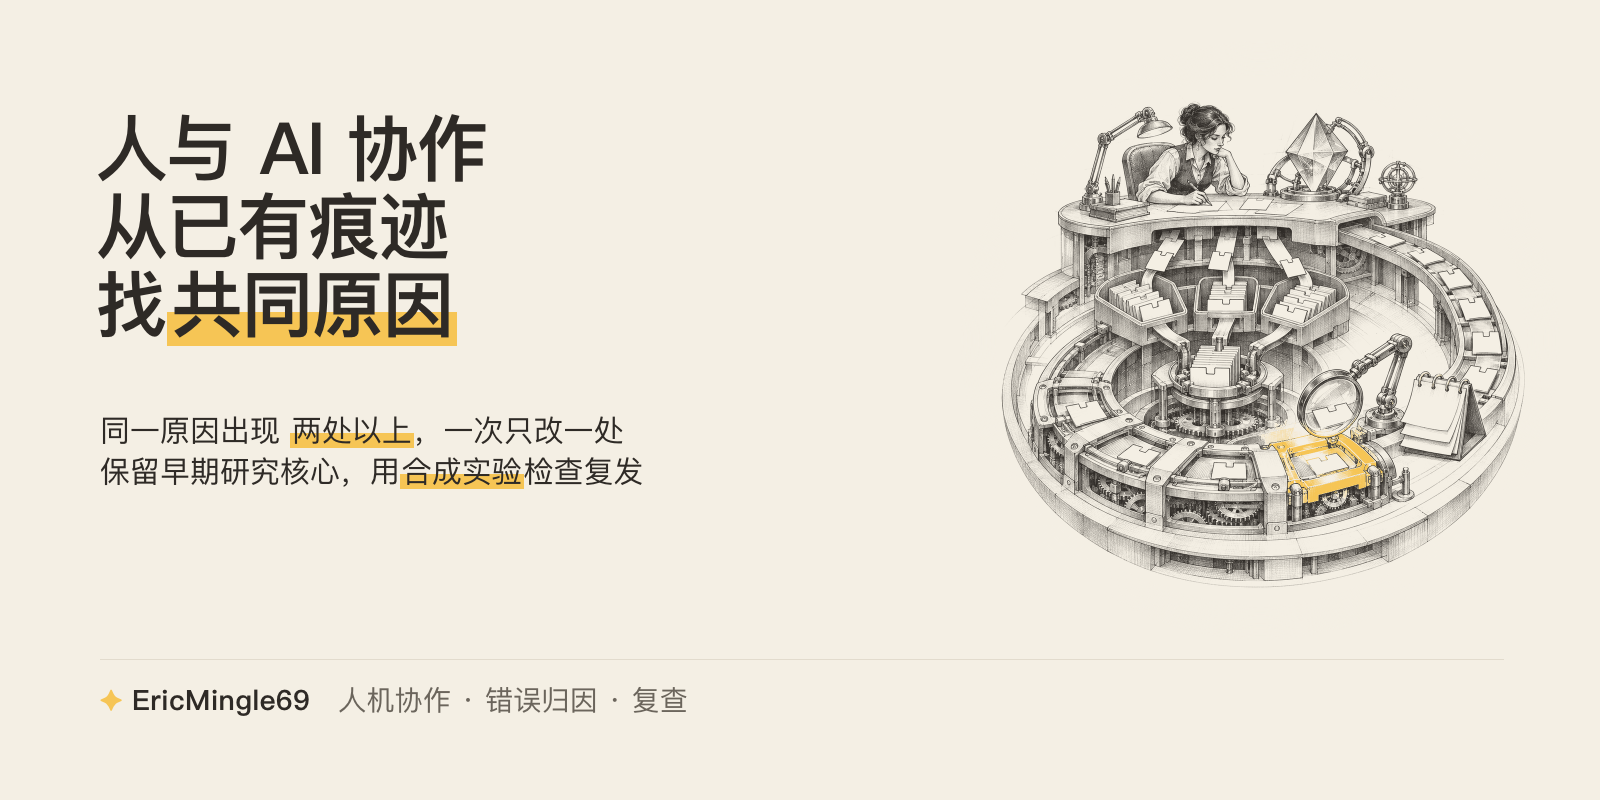
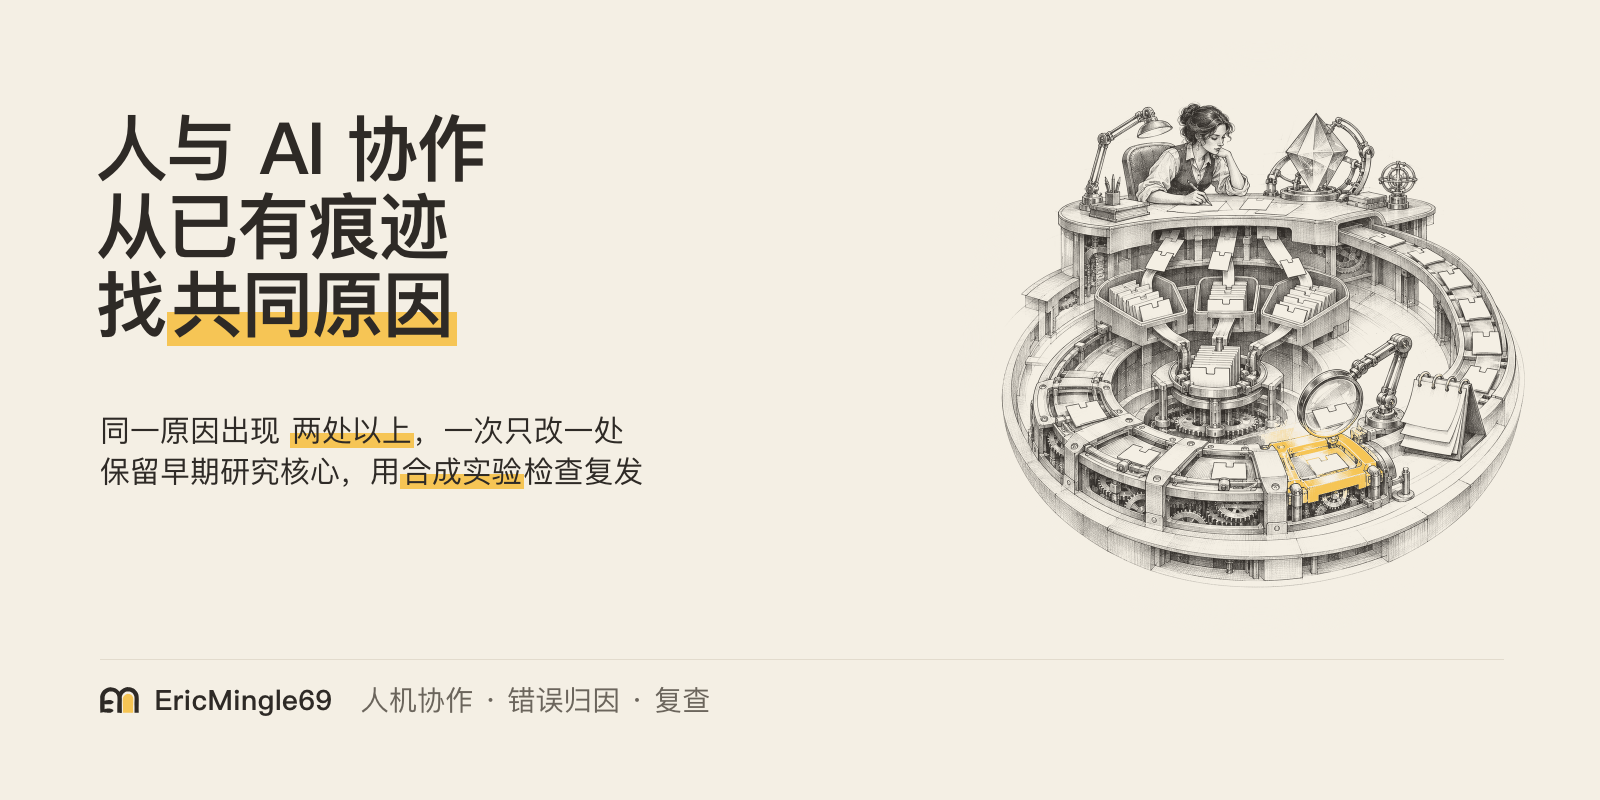
Docs: EM signature and covers

Changed region(s): [[0.0625, 0.8438, 0.4375, 0.9062]]

diff --git a/scripts/publication_check.py b/scripts/publication_check.py
@@ -24,7 +24,7 @@ from urllib.parse import parse_qsl, urlsplit
 MANIFEST = "PUBLIC-FILES.json"
 CONFIG = "PUBLICATION.toml"
 # Reviewed, generated covers only; other binary files remain forbidden.
[2 lines of base64/hex data omitted]
 MAX_FILES = 3000
 MAX_BYTES = 2_000_000
 DENIED_DIRS = frozenset({

diff --git a/src/astra_harness/__init__.py b/src/astra_harness/__init__.py
@@ -1,2 +1,2 @@
 """Astra Harness public research core; no automatic host integration."""
-__version__ = "0.1.3"
+__version__ = "0.1.4"

diff --git a/README.en.md b/README.en.md
@@ -8,7 +8,7 @@
 <p align="center">
 <img alt="license MIT" src="https://img.shields.io/badge/license-MIT-F6C555?style=flat-square&labelColor=2E2A26">
 <img alt="python 3.11%2B" src="https://img.shields.io/badge/python-3.11%2B-6B655C?style=flat-square&labelColor=2E2A26">
-<img alt="version 0.1.3" src="https://img.shields.io/badge/version-0.1.3-6B655C?style=flat-square&labelColor=2E2A26">
+<img alt="version 0.1.4" src="https://img.shields.io/badge/version-0.1.4-6B655C?style=flat-square&labelColor=2E2A26">
 <a href="https://github.com/Ming-Sir-69/astra-harness/actions/workflows/research-core.yml"><img alt="Synthetic research CI" src="https://img.shields.io/github/actions/workflow/status/Ming-Sir-69/astra-harness/research-core.yml?branch=main&style=flat-square&labelColor=2E2A26&color=A8A196"></a>
 </p>
 
@@ -31,7 +31,7 @@ No extra logging; the workflow uses the traces that already exist:
 <details>
 <summary>Public capabilities and boundaries</summary>
 
-| Capability | Public 0.1.3 | Boundary |
+| Capability | Public 0.1.4 | Boundary |
 |---|---|---|
 | HCD event protocol and SQLite ledger | Implemented | Explicit data root; bounded inputs; idempotency; ownership/epoch checks |
 | Acceptance and ordinal distance | Implemented | Plan/result separate; evidence required; later corrections and expiry invalidate stale state |
@@ -152,5 +152,5 @@ These works relate to mechanisms discussed by this project and provide context f
 
 ---
 
-Maintained by **✦ EricMingle69** · [Ming-Sir-69](https://github.com/Ming-Sir-69)  
+Maintained by <picture><source media="(prefers-color-scheme: dark)" srcset="readme-assets/em-logo-dark.svg"><img src="readme-assets/em-logo-light.svg" alt="EM" height="13"></picture> <b>EricMingle69</b> · <a href="https://github.com/Ming-Sir-69">Ming-Sir-69</a><br>
 Code, text and original graphics are released under the [MIT License](LICENSE).

diff --git a/README.md b/README.md
@@ -8,7 +8,7 @@
 <p align="center">
 <img alt="license MIT" src="https://img.shields.io/badge/license-MIT-F6C555?style=flat-square&labelColor=2E2A26">
 <img alt="python 3.11%2B" src="https://img.shields.io/badge/python-3.11%2B-6B655C?style=flat-square&labelColor=2E2A26">
-<img alt="version 0.1.3" src="https://img.shields.io/badge/version-0.1.3-6B655C?style=flat-square&labelColor=2E2A26">
+<img alt="version 0.1.4" src="https://img.shields.io/badge/version-0.1.4-6B655C?style=flat-square&labelColor=2E2A26">
 <a href="https://github.com/Ming-Sir-69/astra-harness/actions/workflows/research-core.yml"><img alt="Synthetic research CI" src="https://img.shields.io/github/actions/workflow/status/Ming-Sir-69/astra-harness/research-core.yml?branch=main&style=flat-square&labelColor=2E2A26&color=A8A196"></a>
 </p>
 
@@ -31,7 +31,7 @@
 <details>
 <summary>公开能力与边界</summary>
 
-| 能力 | 公共 0.1.3 | 边界 |
+| 能力 | 公共 0.1.4 | 边界 |
 |---|---|---|
 | HCD 事件协议与 SQLite 账本 | 已实现 | 显式数据根、输入限额、幂等、owner/epoch 检查 |
 | 接受状态与序数距离 | 已实现 | 方案/成品分开；需证据；后续纠偏和过期使旧状态失效 |
@@ -150,5 +150,5 @@ HCD 事件协议使用 Python 标准库的 SQLite 接口保存账本<sup>[[1]](#
 
 ---
 
-文档维护：**✦ EricMingle69** · [Ming-Sir-69](https://github.com/Ming-Sir-69)  
+文档维护：<picture><source media="(prefers-color-scheme: dark)" srcset="readme-assets/em-logo-dark.svg"><img src="readme-assets/em-logo-light.svg" alt="EM" height="13"></picture> <b>EricMingle69</b> · <a href="https://github.com/Ming-Sir-69">Ming-Sir-69</a><br>
 代码、文字与自有图形以 [MIT 许可](LICENSE) 发布。

diff --git a/docs/evolution/0.1.4.md b/docs/evolution/0.1.4.md
@@ -1,0 +1,19 @@
+# Public research core 0.1.4
+
+## Problem
+The public cover and footer still used the old star signature instead of the current EM logo.
+
+## Architecture and interface
+Add two static inline SVG logo assets and replace the four generated covers. Update the pinned cover hashes; runtime interfaces are unchanged.
+
+## Decisions and alternatives
+Use tightly cropped light/dark logo assets and the shared footer HTML. Remove the obsolete star from notices and legacy banner text without changing authorship or licensing.
+
+## Research hypotheses
+No change to research hypotheses or evidence claims.
+
+## Validation and limits
+Run the full synthetic suite, including rejection of altered bytes for each cover, and the publication check against origin/main. Check that no old star remains in repository text and inspect the GitHub-rendered footer in both themes.
+
+## Next
+Review the logo presentation before merging; social preview upload is handled separately.

diff --git a/NOTICE.md b/NOTICE.md
@@ -1,5 +1,5 @@
 # Attribution
 
-The public research implementation and documentation are maintained by ✦EricMingle69 and distributed under MIT. The event/pattern logic is adapted from the author's internal Harness implementation; this extraction deliberately omits personal runtime and data.
+The public research implementation and documentation are maintained by EricMingle69 and distributed under MIT. The event/pattern logic is adapted from the author's internal Harness implementation; this extraction deliberately omits personal runtime and data.
 
 The runtime uses the Python standard library, including SQLite bindings and POSIX file locks. No third-party library source, model artifact, dataset, or adapter is bundled. Setuptools is a build dependency and is not vendored. Future additions must retain their respective copyright and license notices.

diff --git a/CHANGELOG.md b/CHANGELOG.md
@@ -1,5 +1,9 @@
 # Changelog
 
+## [0.1.4] - 2026-11-17
+
+Replace the cover signature and bilingual README footer with the EM logo. Add light/dark inline logo assets, remove the old star mark from authorship notices and legacy banners, and update the four reviewed cover hashes. Runtime behavior is unchanged.
+
 ## [0.1.3] - 2026-11-16
 
 Add twelve related works to both README languages after the implementation references, with explicit mechanism mappings and a distinction from implementation provenance. Runtime behavior and research claims remain unchanged. Add the two public publisher hosts to the publication URL allowlist.
